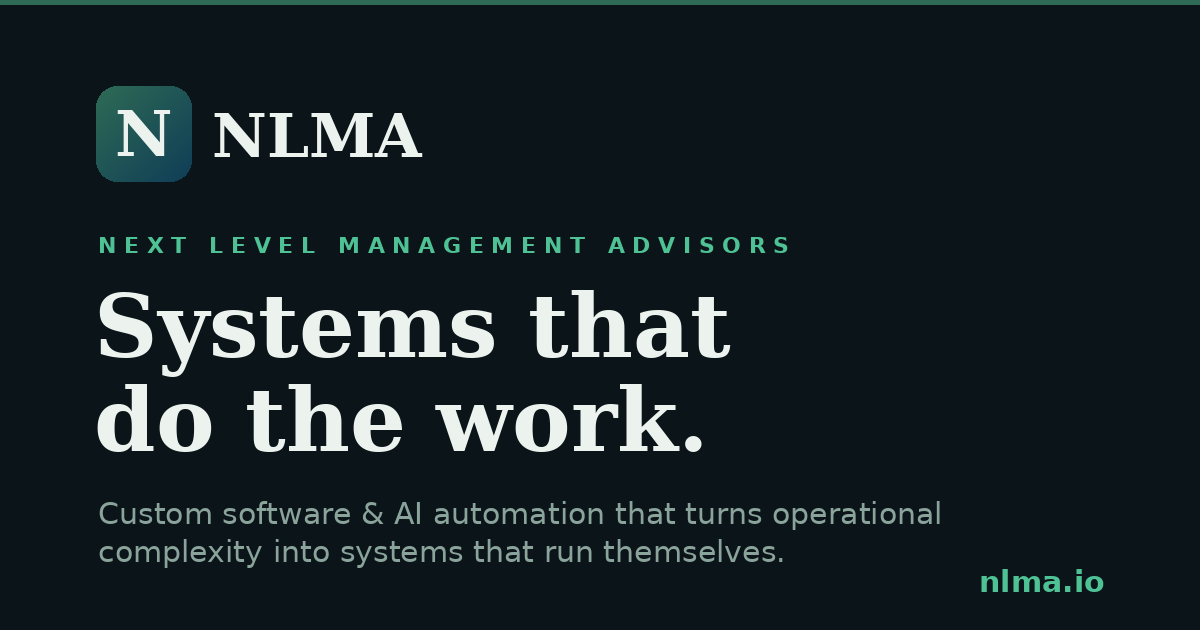
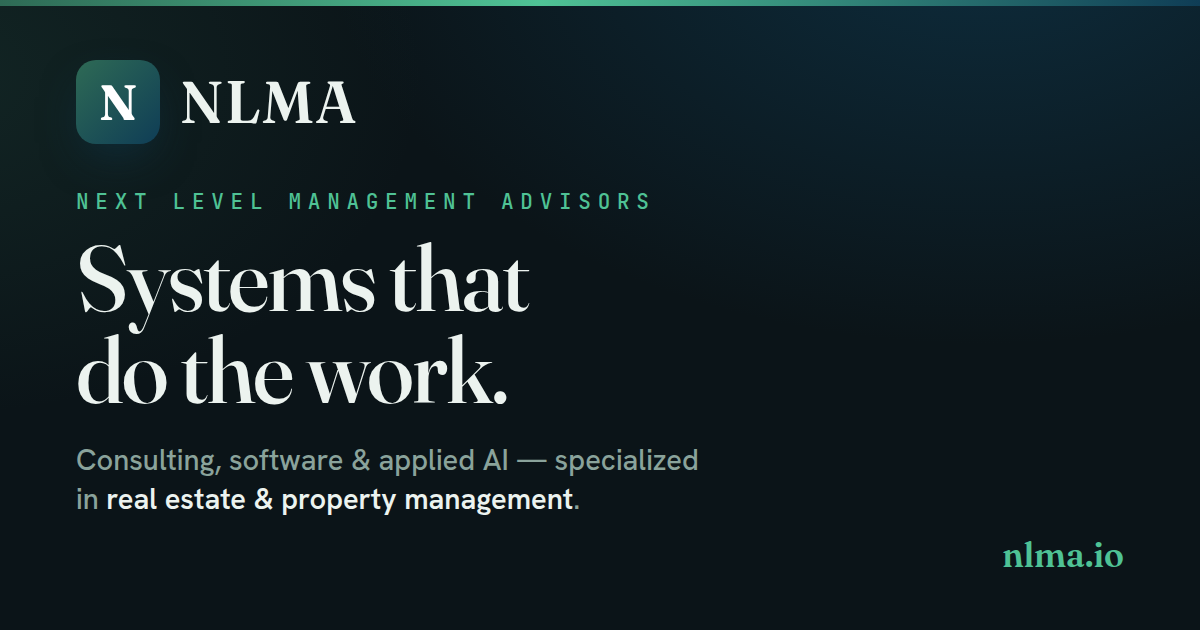
meta+og: align descriptions and social card with consulting + software + AI, RE/PM specialization

diff --git a/index.html b/index.html
@@ -12,17 +12,17 @@
 <meta property="og:image:height" content="630" />
 <meta name="twitter:card" content="summary_large_image" />
 <meta name="twitter:title" content="Systems that do the work · NLMA" />
-<meta name="twitter:description" content="Custom software and AI automation that turns operational complexity into systems that run themselves." />
+<meta name="twitter:description" content="Consulting, software, and applied AI that turn operational complexity into systems that run themselves — specialized in real estate and property management." />
 <meta name="twitter:image" content="https://nlma.io/og-image.png" />
 <title>NLMA · Next Level Management Advisors · Systems that do the work</title>
-<meta name="description" content="NLMA designs and builds custom software and AI automation that turns operational complexity into systems that run themselves, across commercial and government workflows." />
+<meta name="description" content="NLMA blends operations consulting, senior software engineering, and applied AI to turn operational complexity into systems that run themselves — with deep specialization in real estate and property management." />
 <meta name="theme-color" content="#0B1418" />
 
 <!-- Open Graph -->
 <meta property="og:type" content="website" />
 <meta property="og:site_name" content="NLMA · Next Level Management Advisors" />
 <meta property="og:title" content="Systems that do the work · NLMA" />
-<meta property="og:description" content="Custom software and AI automation that turns operational complexity into systems that run themselves." />
+<meta property="og:description" content="Consulting, software, and applied AI that turn operational complexity into systems that run themselves — specialized in real estate and property management." />
 <meta property="og:url" content="https://nlma.io/" />
 <link rel="canonical" href="https://nlma.io/" />
 
@@ -404,7 +404,6 @@ a:focus-visible,button:focus-visible,input:focus-visible,textarea:focus-visible{
       <a href="/portfolio">Work</a>
       <a href="/referrals">Referrals</a>
       <a href="#systems">Systems</a>
-      <a href="/consults">Consults</a>
       <a href="/contact">Contact</a>
     </nav>
     <div class="head-cta">
@@ -420,7 +419,6 @@ a:focus-visible,button:focus-visible,input:focus-visible,textarea:focus-visible{
   <a href="/portfolio">Work</a>
   <a href="/referrals">Referrals</a>
   <a href="#systems">Systems</a>
-  <a href="/consults">Consults</a>
   <a href="/contact">Contact</a>
   <a class="btn btn-primary" href="mailto:[email redacted]?subject=New%20project%20enquiry"><span class="dot"></span>Start a project</a>
 </nav>
@@ -655,7 +653,6 @@ a:focus-visible,button:focus-visible,input:focus-visible,textarea:focus-visible{
           <li><a href="/services">Services</a></li>
           <li><a href="/portfolio">Work</a></li>
           <li><a href="/referrals">Referrals</a></li>
-          <li><a href="/consults">Consults</a></li>
           <li><a href="/resume">Résumé</a></li>
           <li><a href="#systems">Systems</a></li>
         </ul>

diff --git a/about.html b/about.html
@@ -13,10 +13,10 @@
 <meta property="og:image:height" content="630" />
 <meta name="twitter:card" content="summary_large_image" />
 <meta name="twitter:title" content="Systems that do the work · NLMA" />
-<meta name="twitter:description" content="Custom software and AI automation that turns operational complexity into systems that run themselves." />
+<meta name="twitter:description" content="Operations consulting, software engineering, and applied AI — concentrated in real estate and property management." />
 <meta name="twitter:image" content="https://nlma.io/og-image.png" />
 <title>About · NLMA · Next Level Management Advisors</title>
-<meta name="description" content="NLMA is a Virginia-based software and AI automation firm founded by operators who got tired of waiting for the right tools to exist." />
+<meta name="description" content="NLMA pairs operations consulting with senior software engineering and applied AI, concentrated in real estate and property management — founded by operators who got tired of waiting for the right tools to exist." />
 <link rel="canonical" href="https://nlma.io/about" />
 <link rel="preconnect" href="https://fonts.googleapis.com" />
 <link rel="preconnect" href="https://fonts.gstatic.com" crossorigin />
@@ -273,7 +273,6 @@ a:focus-visible,button:focus-visible,input:focus-visible,textarea:focus-visible{
       <a href="/portfolio">Work</a>
       <a href="/referrals">Referrals</a>
       <a href="/#systems">Systems</a>
-      <a href="/consults">Consults</a>
       <a href="/contact">Contact</a>
     </nav>
     <div class="head-cta">
@@ -289,7 +288,6 @@ a:focus-visible,button:focus-visible,input:focus-visible,textarea:focus-visible{
   <a href="/portfolio">Work</a>
   <a href="/referrals">Referrals</a>
   <a href="/#systems">Systems</a>
-  <a href="/consults">Consults</a>
   <a href="/contact">Contact</a>
   <a class="btn btn-primary" href="mailto:[email redacted]?subject=New%20project%20enquiry"><span class="dot"></span>Start a project</a>
 </nav>
@@ -433,7 +431,6 @@ a:focus-visible,button:focus-visible,input:focus-visible,textarea:focus-visible{
           <li><a href="/services">Services</a></li>
           <li><a href="/portfolio">Work</a></li>
           <li><a href="/referrals">Referrals</a></li>
-          <li><a href="/consults">Consults</a></li>
           <li><a href="/resume">Résumé</a></li>
           <li><a href="/#systems">Systems</a></li>
         </ul>

diff --git a/services.html b/services.html
@@ -13,10 +13,10 @@
 <meta property="og:image:height" content="630" />
 <meta name="twitter:card" content="summary_large_image" />
 <meta name="twitter:title" content="Systems that do the work · NLMA" />
-<meta name="twitter:description" content="Custom software and AI automation that turns operational complexity into systems that run themselves." />
+<meta name="twitter:description" content="Custom software, AI automation, and MCP infrastructure — specialized in real estate and property management." />
 <meta name="twitter:image" content="https://nlma.io/og-image.png" />
 <title>Services · NLMA · Next Level Management Advisors</title>
-<meta name="description" content="Custom software, AI automation, MCP infrastructure, and property management technology from NLMA." />
+<meta name="description" content="Custom software, AI automation, MCP infrastructure, and real estate & property-management technology from NLMA." />
 <link rel="canonical" href="https://nlma.io/services" />
 <link rel="preconnect" href="https://fonts.googleapis.com" />
 <link rel="preconnect" href="https://fonts.gstatic.com" crossorigin />
@@ -269,7 +269,6 @@ a:focus-visible,button:focus-visible,input:focus-visible,textarea:focus-visible{
       <a href="/portfolio">Work</a>
       <a href="/referrals">Referrals</a>
       <a href="/#systems">Systems</a>
-      <a href="/consults">Consults</a>
       <a href="/contact">Contact</a>
     </nav>
     <div class="head-cta">
@@ -285,7 +284,6 @@ a:focus-visible,button:focus-visible,input:focus-visible,textarea:focus-visible{
   <a href="/portfolio">Work</a>
   <a href="/referrals">Referrals</a>
   <a href="/#systems">Systems</a>
-  <a href="/consults">Consults</a>
   <a href="/contact">Contact</a>
   <a class="btn btn-primary" href="mailto:[email redacted]?subject=New%20project%20enquiry"><span class="dot"></span>Start a project</a>
 </nav>
@@ -466,7 +464,6 @@ a:focus-visible,button:focus-visible,input:focus-visible,textarea:focus-visible{
           <li><a href="/services">Services</a></li>
           <li><a href="/portfolio">Work</a></li>
           <li><a href="/referrals">Referrals</a></li>
-          <li><a href="/consults">Consults</a></li>
           <li><a href="/resume">Résumé</a></li>
           <li><a href="/#systems">Systems</a></li>
         </ul>